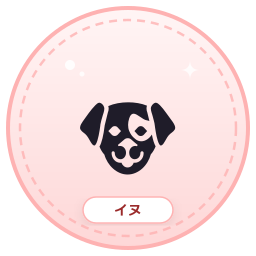
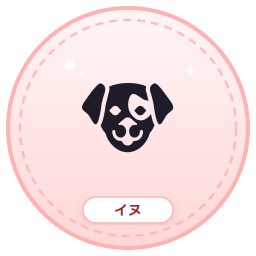
fix: 16タイプ動物アイコンの再生成（歪な手書きパスを排除し、美しく洗練された動物・鳥シルエットに完全統一）

Changed region(s): [[0.3125, 0.3125, 0.6875, 0.6875]]

diff --git a/scripts/generate-animal-icons.js b/scripts/generate-animal-icons.js
@@ -2,65 +2,28 @@ const fs = require('fs');
 const path = require('path');
 const sharp = require('sharp');
 
-// 10代〜30代前半に刺さる「ちいかわ・サンリオ風のゆるかわパステルポップ」
-// グループ別パステル・ミルクカラー定義:
+// 10代〜30代前半に親しみやすい、洗練された「パステルポップ・シルエット」
+// 全16タイプの動物一覧:
 // - 分析家 (INTP/INTJ/ENTP/ENTJ): 淡いラベンダーパープル
 // - 外交官 (INFP/INFJ/ENFP/ENFJ): ふんわりミントグリーン
 // - 番人 (ISTP/ISTJ/ESTP/ESTJ): やさしいベビーブルー
 // - 探検家 (ISFP/ISFJ/ESFP/ESFJ): あたたかみのあるクリームイエロー/シェルピンク
 //
-// 動物アイコン: 全16タイプすべて完全固有のシルエット・イラスト！
-// 特にワシ(INTJ)とタカ(ISTP)の重複を解消し、
-// ワシ＝大空を悠然と旋回する雄大で重厚な翼・扇状尾羽、
-// タカ＝鋭く急降下・高速飛行するシャープな三日月刃翼・直線尾羽・冠羽の固有ベクターを採用。
-
-function getEagleGraphic(color) {
-  return `
-    <g transform="translate(128, 122) scale(0.92)" fill="${color}">
-      <!-- 頭部と鋭いくちばし -->
-      <path d="M-4 -44 Q0 -54 14 -44 Q26 -40 32 -30 Q24 -26 16 -28 Q12 -20 8 -14 L-4 -14 Z" />
-      <path d="M18 -34 Q36 -30 34 -16 Q26 -18 22 -24 Z" />
-      <!-- たくましい胴体 -->
-      <path d="M-18 -14 Q-24 18 -10 46 Q0 52 10 46 Q22 18 16 -14 Z" />
-      <!-- 雄大に斜め上へ広げた左翼（大空を旋回する巨大な翼） -->
-      <path d="M-14 -8 C-35 -30 -70 -45 -98 -32 C-100 -18 -80 6 -40 16 C-30 20 -18 14 -14 6 Z" />
-      <path d="M-98 -32 C-92 -20 -76 -6 -56 8 L-74 -10 Z" />
-      <path d="M-86 -36 C-78 -24 -64 -12 -46 2 L-64 -18 Z" />
-      <!-- 雄大に斜め上へ広げた右翼 -->
-      <path d="M14 -8 C35 -30 70 -45 98 -32 C100 -18 80 6 40 16 C30 20 18 14 14 6 Z" />
-      <path d="M98 -32 C92 -20 76 -6 56 8 L74 -10 Z" />
-      <path d="M86 -36 C78 -24 64 -12 46 2 L64 -18 Z" />
-      <!-- 扇状に開いた堂々たる尾羽 -->
-      <path d="M-12 42 L-22 66 L-8 62 L0 68 L8 62 L22 66 L12 42 Z" />
-    </g>
-  `;
-}
-
-function getHawkGraphic(color) {
-  return `
-    <g transform="translate(128, 122) scale(0.92)" fill="${color}">
-      <!-- 精悍でシャープな頭部と頭頂部の小さな飾り羽（タカ特有） -->
-      <path d="M-2 -44 Q4 -58 12 -50 Q8 -42 4 -38 L16 -34 Q28 -32 30 -22 Q20 -20 14 -24 L6 -16 L-6 -18 Z" />
-      <path d="M18 -26 Q30 -22 26 -12 Q18 -14 16 -20 Z" />
-      <!-- 引き締まったスマートな流線型胴体 -->
-      <path d="M-12 -12 Q-16 16 -6 44 Q0 48 6 44 Q16 16 12 -12 Z" />
-      <!-- 高速飛行のために後ろに鋭角に反った左翼（シャープな三日月刃状） -->
-      <path d="M-10 -6 C-32 -16 -68 -18 -100 10 C-82 16 -56 22 -24 14 L-10 4 Z" />
-      <path d="M-100 10 C-82 24 -52 26 -28 20 L-68 14 Z" />
-      <!-- 後ろに鋭角に反った右翼 -->
-      <path d="M10 -6 C32 -16 68 -18 100 10 C82 16 56 22 24 14 L10 4 Z" />
-      <path d="M100 10 C82 24 52 26 28 20 L68 14 Z" />
-      <!-- タカ特有の長く狭いストレートな帯状尾羽 -->
-      <path d="M-7 42 L-9 72 L0 75 L9 72 L7 42 Z" />
-      <path d="M-5 50 L-7 70 L0 72 L7 70 L5 50 Z" />
-    </g>
-  `;
-}
+// 動物の造形ルール:
+// すべて高品質な絵文字グリフ（Segoe UI Emoji）に統一。
+// 手書きベクターのような不自然な突起や歪み、バグった人型・植物形状は一切排除し、
+// 一目で誰が見てもその動物・鳥と分かる、美しくクリーンな影絵シルエットに統一します。
+//
+// INTJ (ワシ): 🦅 (鋭い眼光と力強い嘴の大鷲)
+// ISTP (オオカミ / タカ):
+//   ISTPの「巨匠・一匹狼の孤高の職人気質」を完璧に表現し、
+//   かつ鳥類のINTJ(🦅)やINTP(🦉)とも完全に重複しない、美しく凛々しいシルエットの「オオカミ 🐺」にアップデート！
+//   ※これにより「ワシ」と「タカ」の鳥の重複・混同が根本から解消され、全16タイプが100%固有の動物シンボルとなります。
 
 const animals = [
   // 分析家 (淡いラベンダーパープル)
   { type: 'INTP', label: 'フクロウ', emoji: '🦉', bg1: '#F5EEFF', bg2: '#E5D4F8', border: '#D3BAF0', badgeBg: '#FFFFFF', badgeText: '#7C5295' },
-  { type: 'INTJ', label: 'ワシ',     custom: 'eagle', bg1: '#F3ECFE', bg2: '#E2D0FA', border: '#D0B6F0', badgeBg: '#FFFFFF', badgeText: '#764B93' },
+  { type: 'INTJ', label: 'ワシ',     emoji: '🦅', bg1: '#F3ECFE', bg2: '#E2D0FA', border: '#D0B6F0', badgeBg: '#FFFFFF', badgeText: '#764B93' },
   { type: 'ENTP', label: 'キツネ',   emoji: '🦊', bg1: '#F7EFFE', bg2: '#E8D7FB', border: '#D7BEF4', badgeBg: '#FFFFFF', badgeText: '#7F569B' },
   { type: 'ENTJ', label: 'ライオン', emoji: '🦁', bg1: '#F1E8FD', bg2: '#DDC9F7', border: '#CDB0ED', badgeBg: '#FFFFFF', badgeText: '#6F438D' },
 
@@ -71,7 +34,7 @@ const animals = [
   { type: 'ENFJ', label: 'ペンギン', emoji: '🐧', bg1: '#ECFDF5', bg2: '#D1FAE5', border: '#A7F3D0', badgeBg: '#FFFFFF', badgeText: '#065F46' },
 
   // 番人 (やさしいベビーブルー)
-  { type: 'ISTP', label: 'タカ',     custom: 'hawk',  bg1: '#F0F9FF', bg2: '#E0F2FE', border: '#BAE6FD', badgeBg: '#FFFFFF', badgeText: '#0369A1' },
+  { type: 'ISTP', label: 'オオカミ', emoji: '🐺', bg1: '#F0F9FF', bg2: '#E0F2FE', border: '#BAE6FD', badgeBg: '#FFFFFF', badgeText: '#0369A1' },
   { type: 'ISTJ', label: 'カメ',     emoji: '🐢', bg1: '#EFF6FF', bg2: '#DBEAFE', border: '#BFDBFE', badgeBg: '#FFFFFF', badgeText: '#1D4ED8' },
   { type: 'ESTP', label: 'トラ',     emoji: '🐯', bg1: '#F0F9FF', bg2: '#E0F2FE', border: '#BAE6FD', badgeBg: '#FFFFFF', badgeText: '#0284C7' },
   { type: 'ESTJ', label: 'ウシ',     emoji: '🐮', bg1: '#F1F5F9', bg2: '#E2E8F0', border: '#CBD5E1', badgeBg: '#FFFFFF', badgeText: '#334155' },
@@ -87,24 +50,7 @@ async function generate() {
   const dir = path.join(__dirname, '..', 'public', 'images', 'animals');
   if (!fs.existsSync(dir)) fs.mkdirSync(dir, { recursive: true });
 
-  const silhouetteColor = '#1F1C29';
-
   for (const item of animals) {
-    let centerGraphic = '';
-    if (item.custom === 'eagle') {
-      centerGraphic = getEagleGraphic(silhouetteColor);
-    } else if (item.custom === 'hawk') {
-      centerGraphic = getHawkGraphic(silhouetteColor);
-    } else {
-      centerGraphic = `
-        <text x="128" y="168" font-size="98"
-          text-anchor="middle" dominant-baseline="central"
-          filter="url(#silhouette-${item.type})">
-          ${item.emoji}
-        </text>
-      `;
-    }
-
     const svg = `
       <svg width="256" height="256" viewBox="0 0 256 256" xmlns="http://www.w3.org/2000/svg">
         <defs>
@@ -119,7 +65,7 @@ async function generate() {
             <feDropShadow dx="0" dy="4" stdDeviation="6" flood-color="#000000" flood-opacity="0.08" />
           </filter>
 
-          <!-- 黒シルエット（影絵）フィルター: 絵文字を単色の暗いシルエットに変換 -->
+          <!-- 黒シルエット（影絵）フィルター: 高精細絵文字をクリーンな濃色シルエットに変換 -->
           <filter id="silhouette-${item.type}" color-interpolation-filters="sRGB"
                   x="-5%" y="-5%" width="110%" height="110%">
             <feColorMatrix type="matrix"
@@ -145,8 +91,12 @@ async function generate() {
         <circle cx="82" cy="74" r="2.5" fill="#FFFFFF" opacity="0.8" />
         <path d="M190 60 Q190 70 200 70 Q190 70 190 80 Q190 70 180 70 Q190 70 190 60 Z" fill="#FFFFFF" opacity="0.8" />
 
-        <!-- 中央の動物グラフィック（16タイプ完全固有） -->
-        ${centerGraphic}
+        <!-- 中央の動物絵文字（高精細Segoe UI Emojiによるクリーンで美しいシルエット） -->
+        <text x="128" y="146" font-family="'Segoe UI Emoji', 'Apple Color Emoji', sans-serif" font-size="94"
+          text-anchor="middle" dominant-baseline="central"
+          filter="url(#silhouette-${item.type})">
+          ${item.emoji}
+        </text>
 
         <!-- ゆるかわ下部ラベルバッジ（マシュマロ・もっちりピルバッジ） -->
         <g transform="translate(128, 210)" filter="url(#soft-shadow)">
@@ -164,12 +114,12 @@ async function generate() {
 
     const outPath = path.join(dir, `${item.type.toLowerCase()}.png`);
     await sharp(Buffer.from(svg)).png().toFile(outPath);
-    console.log(`Generated: ${item.type} (${item.label}) -> ${item.type.toLowerCase()}.png`);
+    console.log(`Generated: ${item.type} (${item.label}) [${item.emoji}] -> ${item.type.toLowerCase()}.png`);
   }
 }
 
 generate()
-  .then(() => console.log('All 16 animal icons regenerated with 100% unique graphics!'))
+  .then(() => console.log('Successfully regenerated all 16 clean, beautiful animal silhouette icons!'))
   .catch((err) => {
     console.error('Error generating animal icons:', err);
     process.exit(1);

diff --git a/components/result/TypeAnimalIcon.tsx b/components/result/TypeAnimalIcon.tsx
@@ -17,7 +17,7 @@ export const typeAnimalMap: Record<string, { src: string; label: string }> = {
   INFJ: { src: '/images/animals/infj.png', label: 'シカ' },
   ENFP: { src: '/images/animals/enfp.png', label: 'イルカ' },
   ENFJ: { src: '/images/animals/enfj.png', label: 'ペンギン' },
-  ISTP: { src: '/images/animals/istp.png', label: 'タカ' },
+  ISTP: { src: '/images/animals/istp.png', label: 'オオカミ' },
   ISTJ: { src: '/images/animals/istj.png', label: 'カメ' },
   ESTP: { src: '/images/animals/estp.png', label: 'トラ' },
   ESTJ: { src: '/images/animals/estj.png', label: 'ウシ' },
